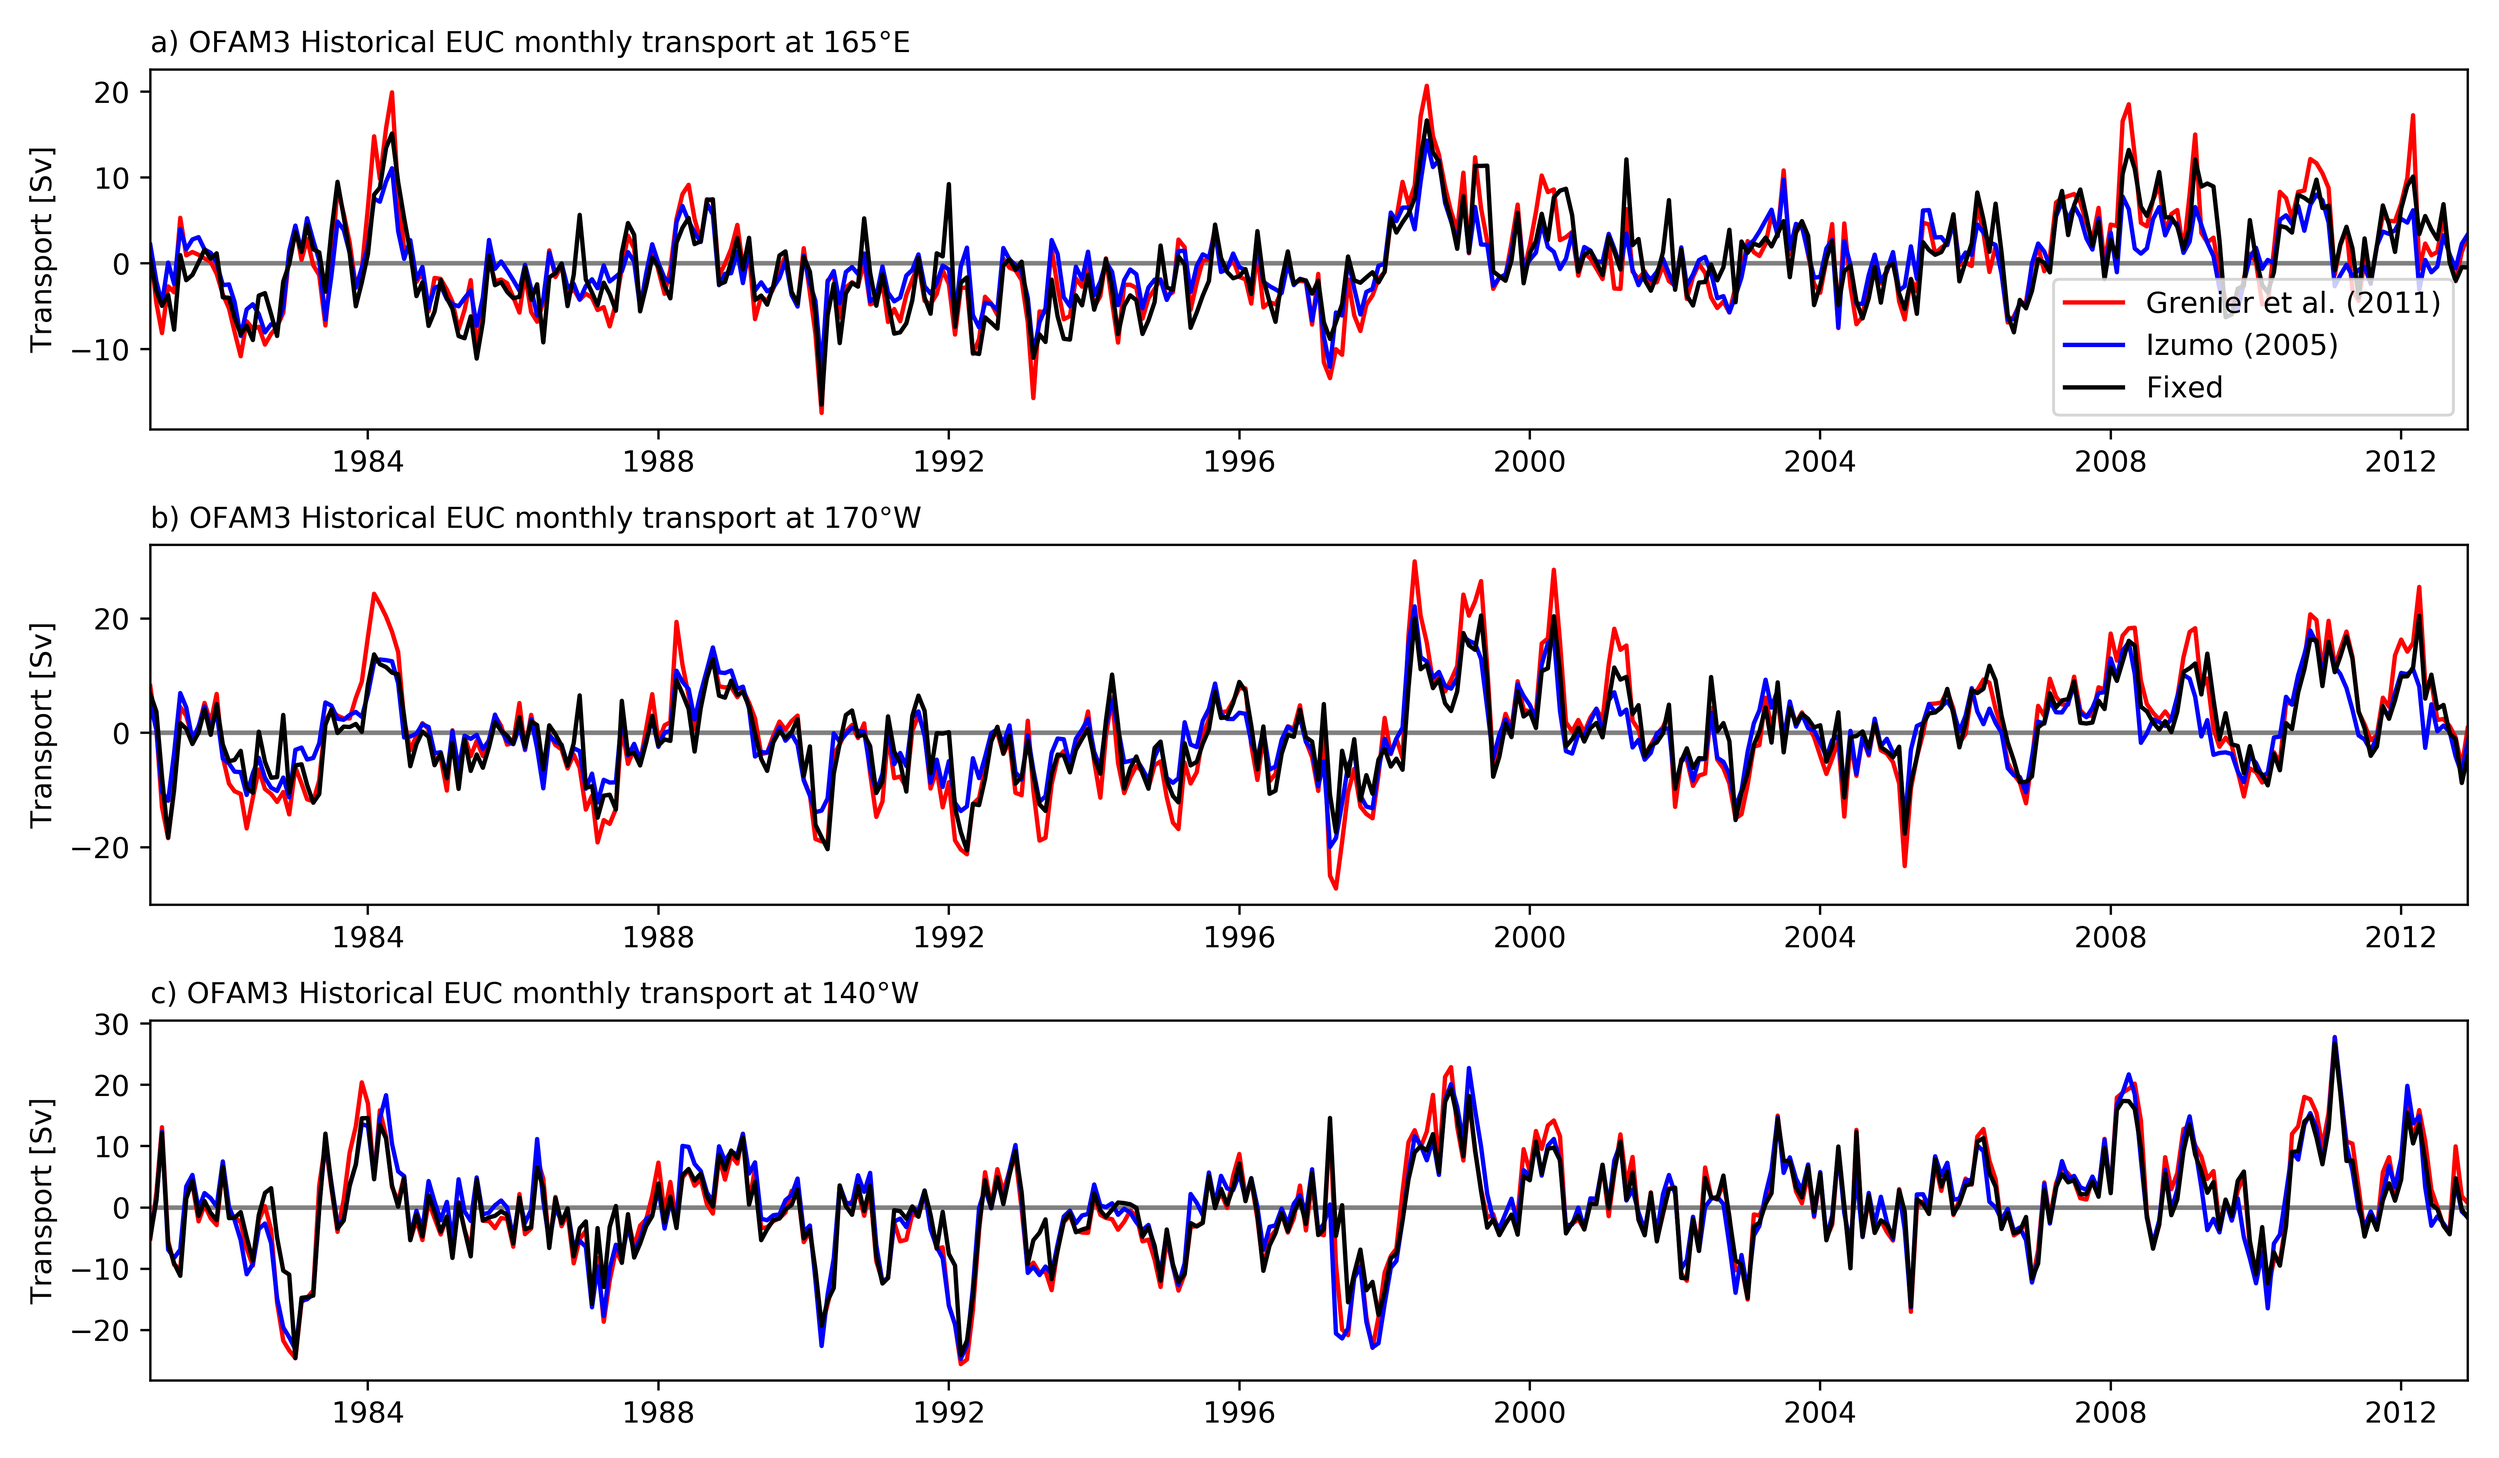
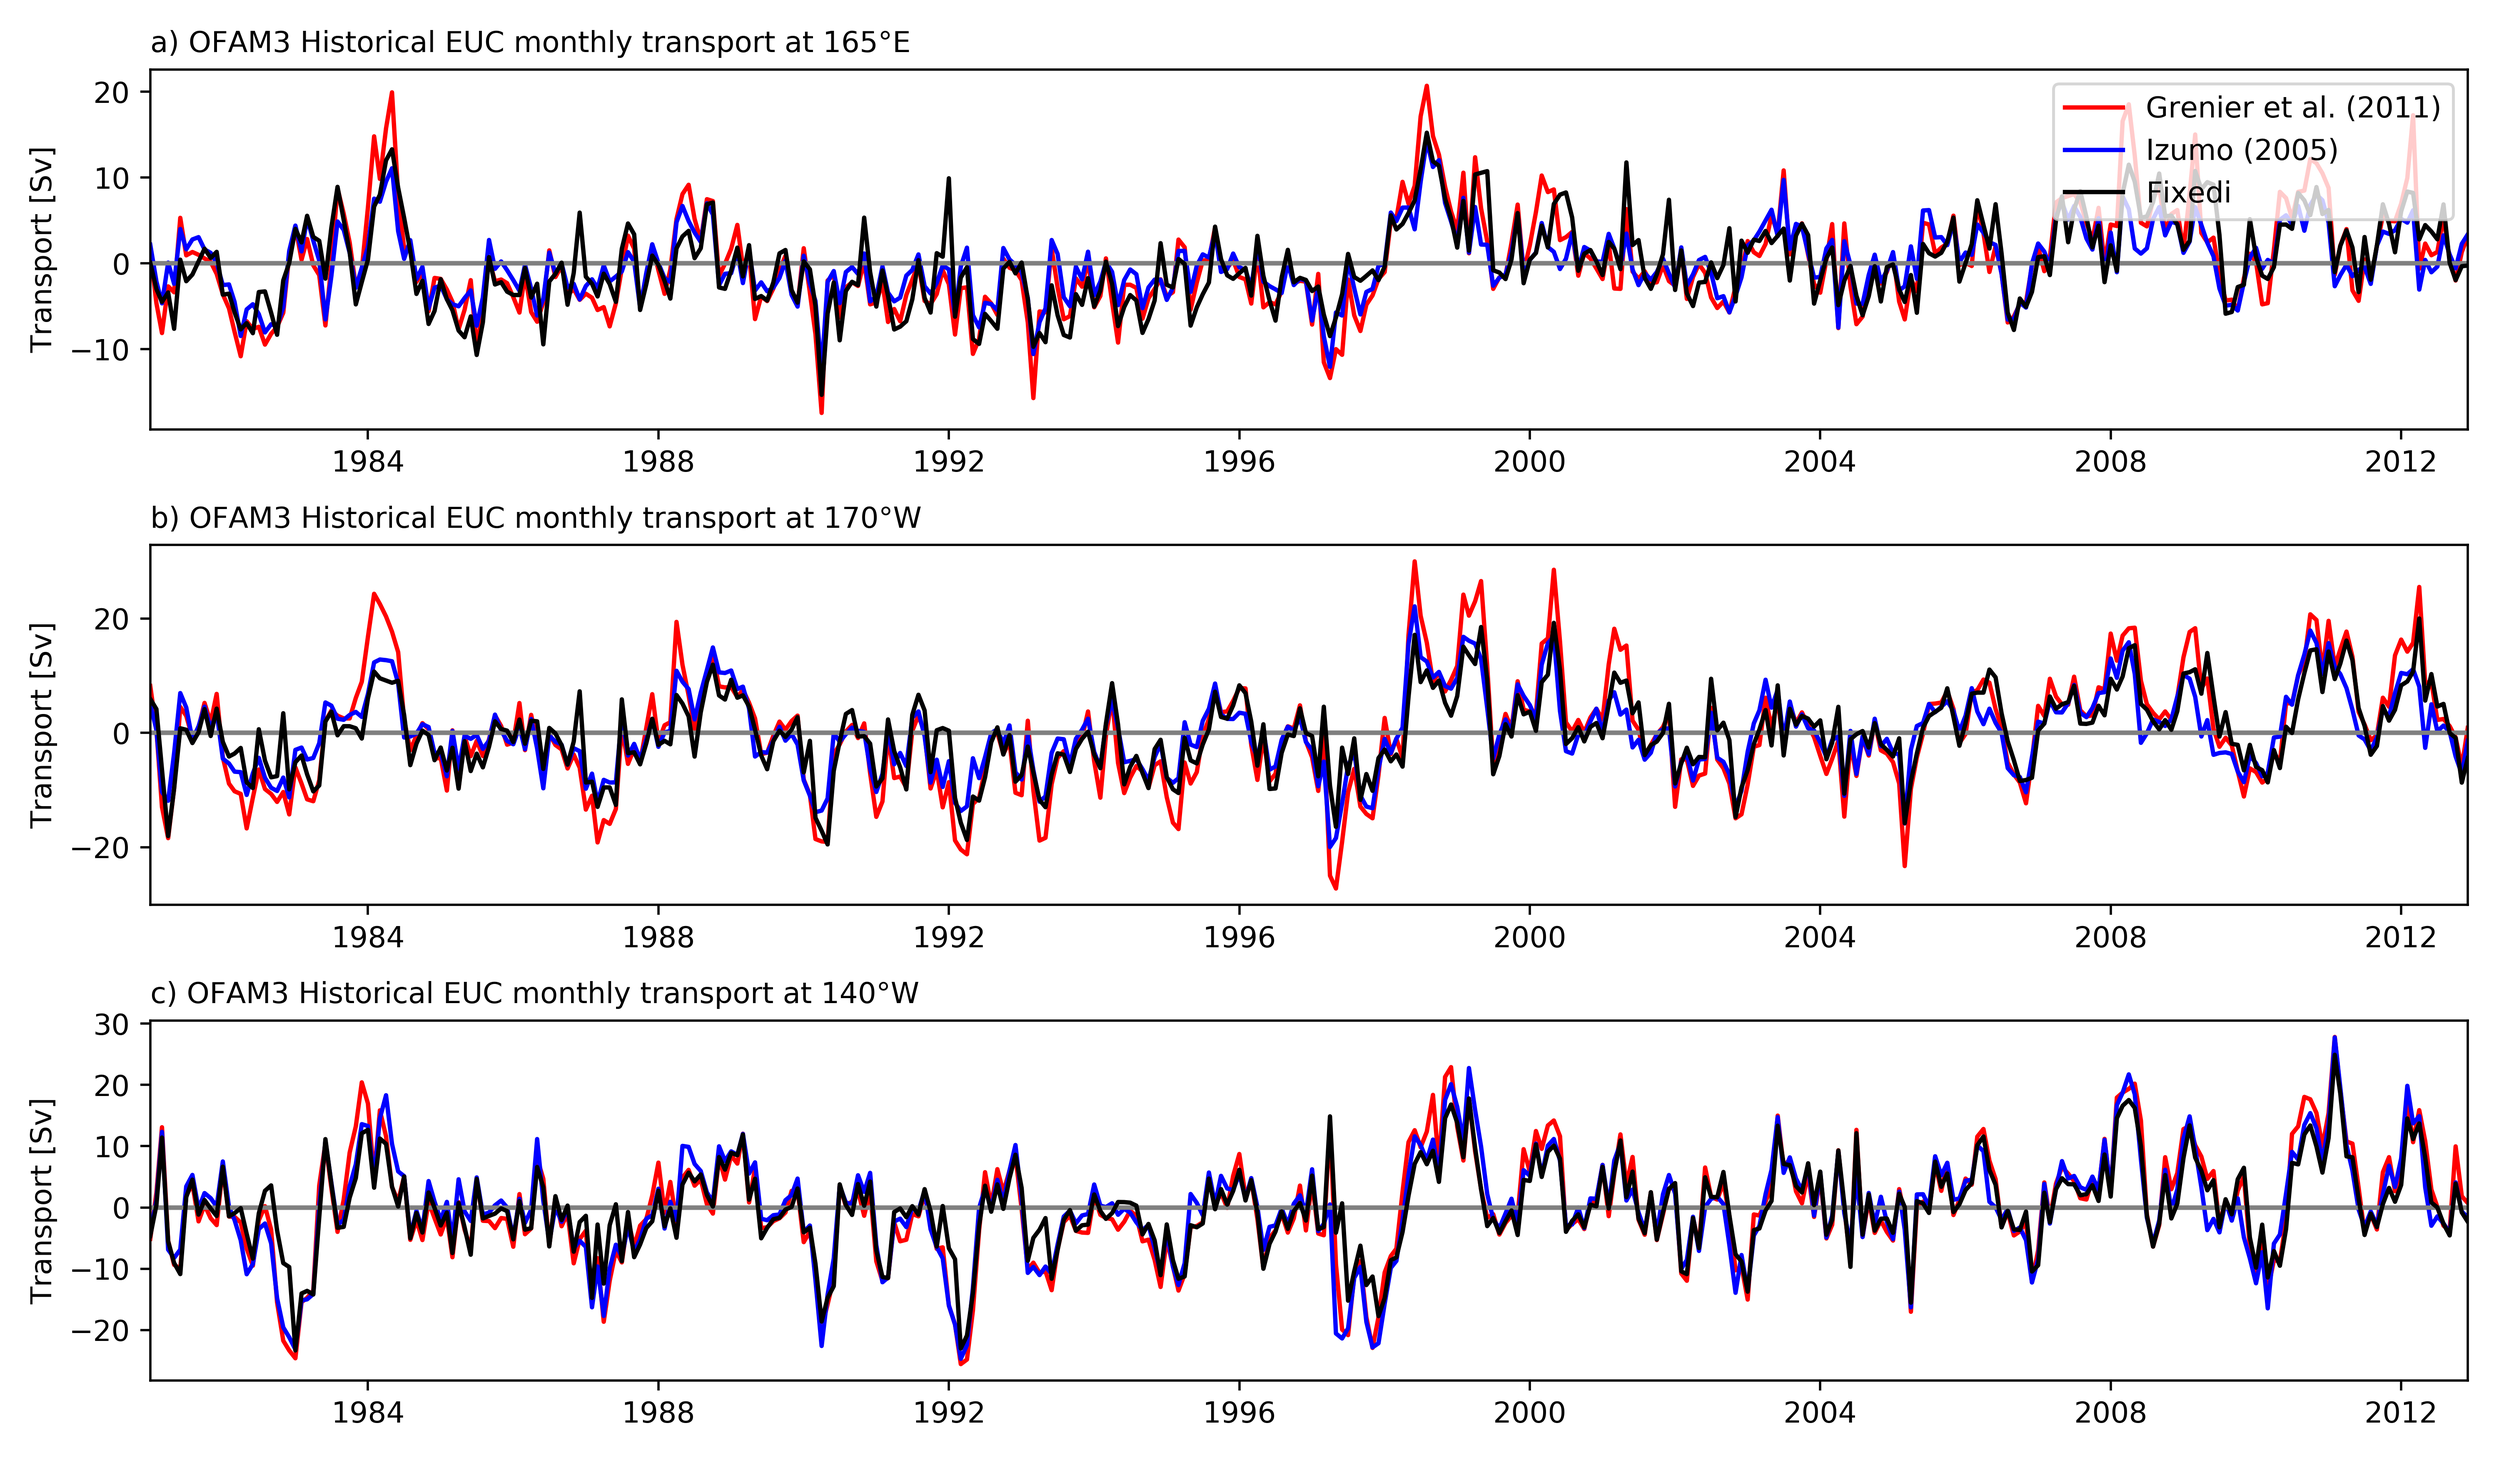
fixed EUC def time plot problem

diff --git a/scripts/valid_plot_EUC_transport_definitions.py b/scripts/valid_plot_EUC_transport_definitions.py
@@ -9,7 +9,9 @@ author: Annette Stellema (astellemas@gmail.com)
 import numpy as np
 import xarray as xr
 import itertools
+import pandas as pd
 from scipy import stats
+from datetime import datetime
 from main import paths, lx, SV
 import matplotlib.pyplot as plt
 from main_valid import plot_eq_velocity, regress, correlation_str
@@ -44,11 +46,11 @@ def plot_EUC_transport_def_timeseries(exp=0):
             if exp == 0:
                 u = (dh.uvo.groupby('Time.month') -
                      dh.uvo.groupby('Time.month').mean())
-                time = dh.Time.to_pandas()
+                time = dh.Time
             else:
                 dr = dr.isel(xu_ocean=i).resample(Time='MS').mean()
 
-                time = dr.Time.to_pandas()
+                time = dr.Time
                 if exp == 1:
                     u = (dr.uvo.groupby('Time.month') -
                          dr.uvo.groupby('Time.month').mean())
@@ -58,13 +60,13 @@ def plot_EUC_transport_def_timeseries(exp=0):
             plt.title('{}OFAM3 {} EUC monthly transport at {}'
                       .format(lx['l'][i], lx['exps'][exp], lx['lonstr'][i]),
                       loc='left')
-            plt.hlines(y=0, xmin=time[0], xmax=time[-1], color='grey')
-            lbs = ['Grenier et al. (2011)', 'Izumo (2005)', 'Fixed']
+            plt.plot(time, np.zeros(len(time)), color='grey')
+            lbs = ['Grenier et al. (2011)', 'Izumo (2005)', 'Fixedi']
             plt.plot(time, u/SV, label=lbs[l], color=c)
             plt.xlim(xmin=time[0], xmax=time[-1])
             plt.ylabel('Transport [Sv]')
             if i == 0:
-                plt.legend(loc=4)
+                plt.legend(loc=1)
             dh.close()
             dr.close()
     plt.tight_layout()
